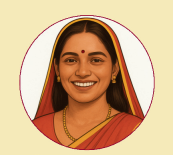
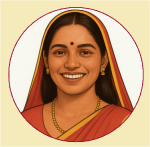
videos

diff --git a/दूसरेबच्चेमेंअंतररखनेकेलाभ.html b/दूसरेबच्चेमेंअंतररखनेकेलाभ.html
@@ -108,7 +108,7 @@
           <p class="text-lg">माता-पिता को अपने रिश्ते को मजबूत बनाने का समय मिलता है।</p>
         </div>
         <div class="bg-white rounded-xl shadow-md p-6 text-center hover:shadow-lg transition-all duration-300">
-          <img src="image.png" alt="Mother Health" class="w-28 h-28 mx-auto mb-4 rounded-full object-cover">
+          <img src="Screenshot 2025-07-21 003127.png" alt="Mother Health" class="w-28 h-28 mx-auto mb-4 rounded-full object-cover">
           <p class="text-lg">पहले बच्चे के बाद माँ के शरीर को फिर से मज़बूत बनने का समय मिलता है।</p>
         </div>
         <div class="bg-white rounded-xl shadow-md p-6 text-center hover:shadow-lg transition-all duration-300">
